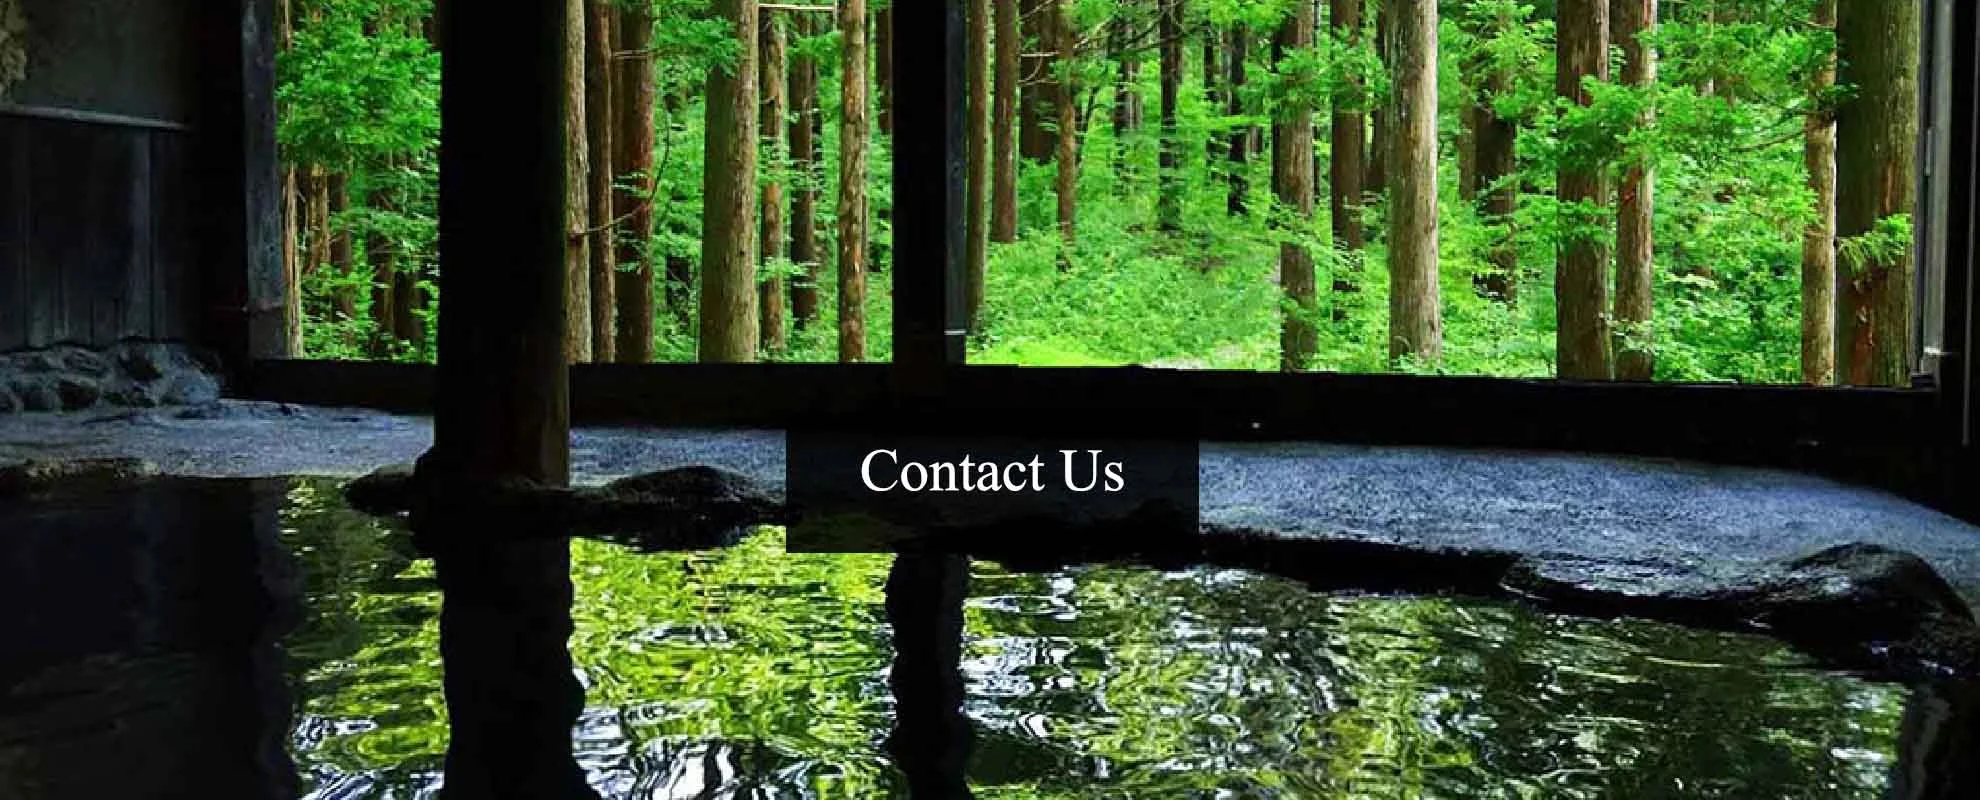
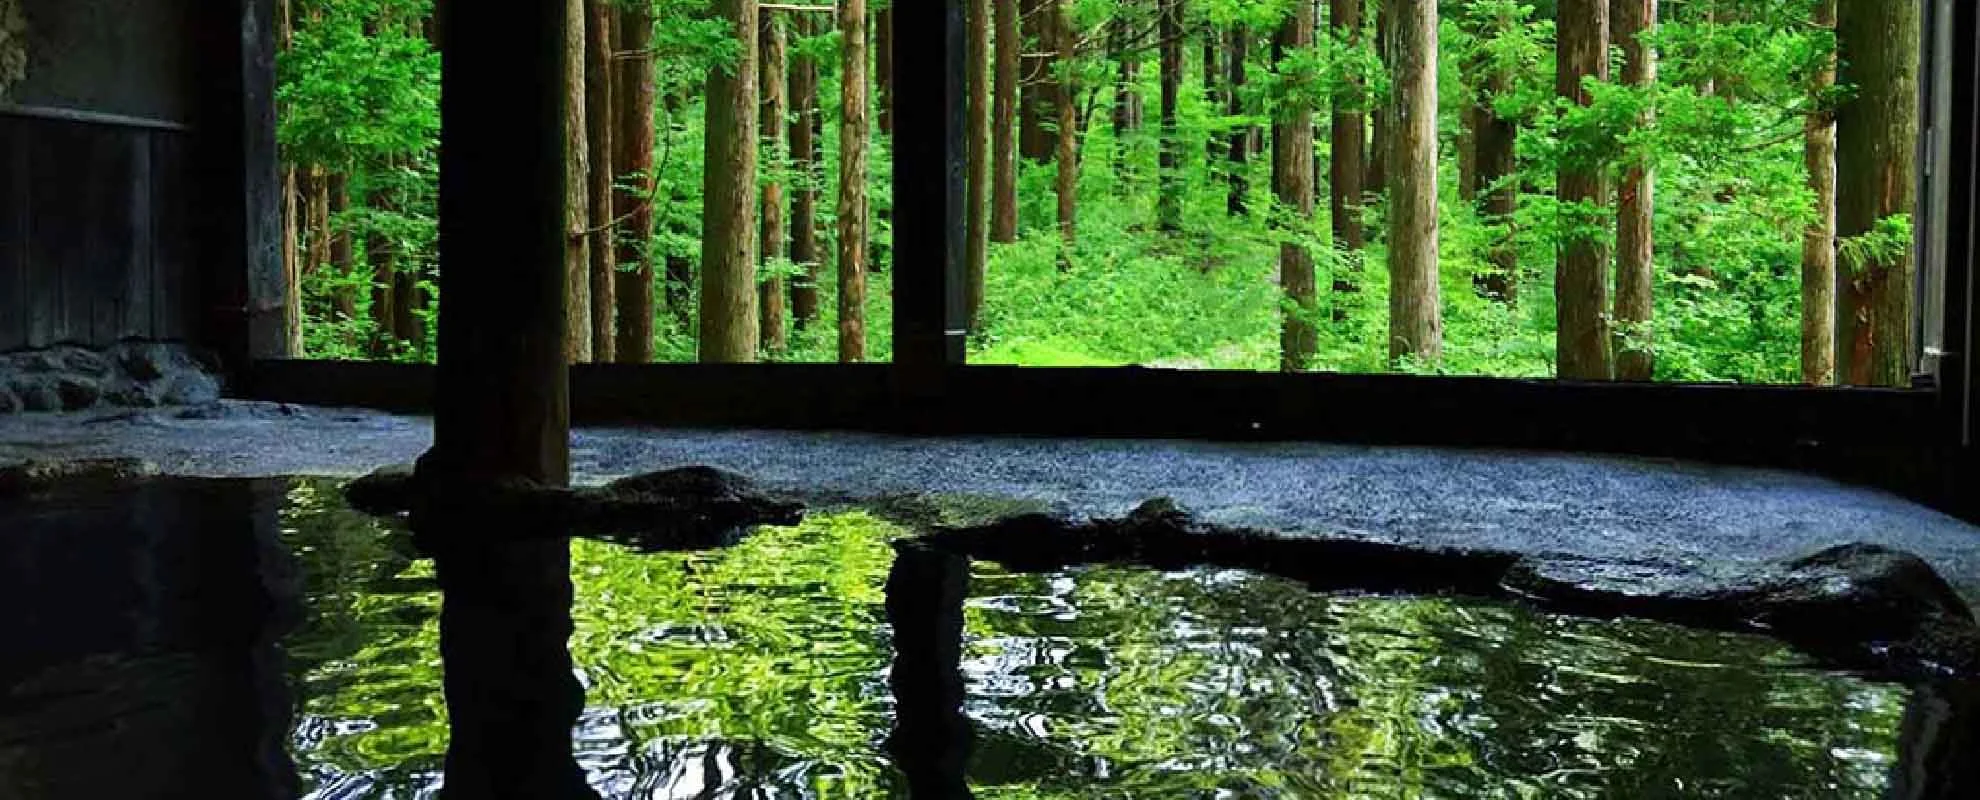
Add title for contact.html

Changed region(s): [[0.3697, 0.5312, 0.6162, 0.7188]]

diff --git a/assets/css/style.css b/assets/css/style.css
@@ -304,7 +304,17 @@ footer li {
 #contact {
   background: url(../images/contact.webp) no-repeat center center/cover;
   width: 100%;
-  height: 500px;
+  height: 70vh;
+  display: flex;
+  justify-content: center;
+  align-items: center;
+}
+
+.contactbox {
+  background-color: rgb(0, 0, 0, 0.8);
+  color: #ede6db;
+  padding: 3%;
+  text-align: center;
 }
 
 /*------- Media query ------------*/

diff --git a/contact.html b/contact.html
@@ -42,8 +42,9 @@
     <!--   Main -->
     <main>
         <section id="contact">
-
-
+            <div class="contactbox">
+                <h2 class="title">Get In Touch With JPspa</h2>
+            </div>
         </section>
 
 
